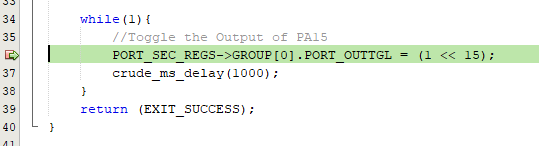
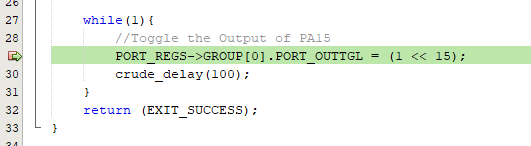
updated with Logic Analyzer

diff --git a/MPLAB_First_Steps.md b/MPLAB_First_Steps.md
@@ -67,29 +67,22 @@ Proceed to input the following code into `main.c`
  * 
  */
 
-int crude_ms_delay(int ms){
-    int count = 0;
-    unsigned int delay_count = ms * 240;
-    
-    while(count < delay_count){
-        asm("nop");
-        count = count + 1;
-    }
-    return 0;
+int crude_delay(int count){
+    for(int i; i < count; i++);
 }
 
 int main() {
      //Set the Data Direction for PA15 as Output
-    PORT_SEC_REGS->GROUP[0].PORT_DIRSET = (1 << 15);
+    PORT_REGS->GROUP[0].PORT_DIRSET = (1 << 15);
     
     //Set the Initial Output Value for PA15 as HIGH
-    PORT_SEC_REGS->GROUP[0].PORT_OUTSET = (1 << 15);
+    PORT_REGS->GROUP[0].PORT_OUTSET = (1 << 15);
     
     
     while(1){
         //Toggle the Output of PA15
-        PORT_SEC_REGS->GROUP[0].PORT_OUTTGL = (1 << 15);
-        crude_ms_delay(1000);
+        PORT_REGS->GROUP[0].PORT_OUTTGL = (1 << 15);
+        crude_delay(100);
     }
     return (EXIT_SUCCESS);
 }
@@ -108,7 +101,7 @@ If it builds, we are now ready to try and debug your application.
 
 Include a breakpoint in your program by clicking on the line number on the left side of the code editor
 
-![alt text](MPLABFirstSteps/images/BMBreakpointHIt.png)
+![alt text](MPLABFirstSteps/images/BMBreakpointHit.png)
 
 Click on the `Debug Main Project` button on the ribbon to begin Simulator Debugging.
 
@@ -137,9 +130,9 @@ Press the `Step Over` Button and you should go into the next line of the Applica
 
 ![alt text](MPLABFirstSteps/images/StepOver.png)
 
-Now press the `Step Into` Button and you should go into the `crude_ms_delay` method
+Now press the `Step Into` Button and you should go into the `crude_delay` method
 
-![alt text](MPLABFirstSteps/images/StepInto.png)
+![alt text](MPLABFirstSteps/images/StepINto.png)
 
 Press the `Continue` button and after a while, you should hit the breakpoint again
 
@@ -156,6 +149,22 @@ Let's try and open up the `Peripherals` Memory View.
 ![alt text](MPLABFirstSteps/images/PeripheralMemoryView.png)
 
 This allows us to directly check the contents of the registers and is useful for debugging.
+
+#### Logic Analyzer
+
+You can open up the logic analyzer by going to 'Window' -> 'Simulator' -> 'Logic Analyzer'
+
+![alt text](MPLABFirstSteps/images/OPenLA.png)
+
+You can watch over a pin's state by adding it. Press the `Settings` icon on the logic analyzer window and add `PA15` to `Selected Pins`
+
+![alt text](MPLABFirstSteps/images/LASettings.png)
+
+![alt text](MPLABFirstSteps/images/AddPin.png)
+
+You can now use the Logic Analyzer to view how `PA15` toggles between 0V and 3.3V
+
+![alt text](MPLABFirstSteps/images/ToggleLA.png)
 
 #### Hardware Debugging
 
